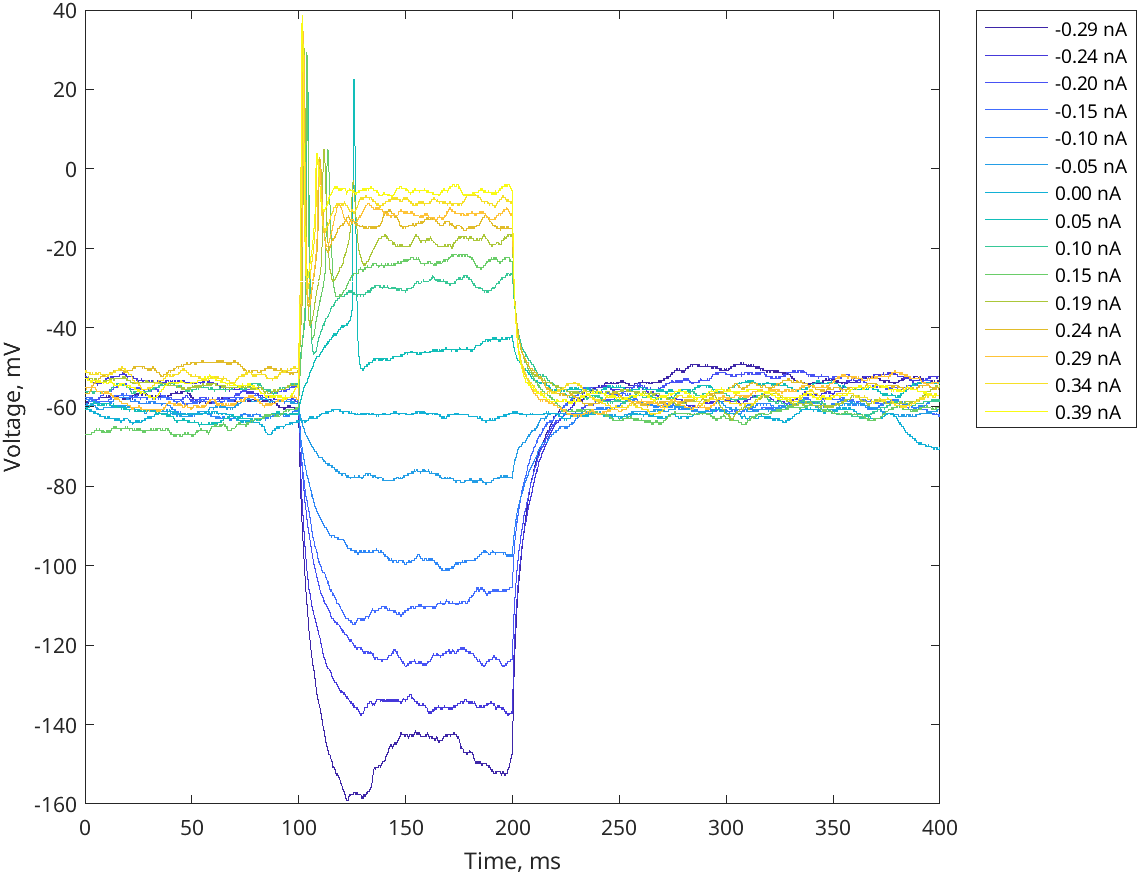
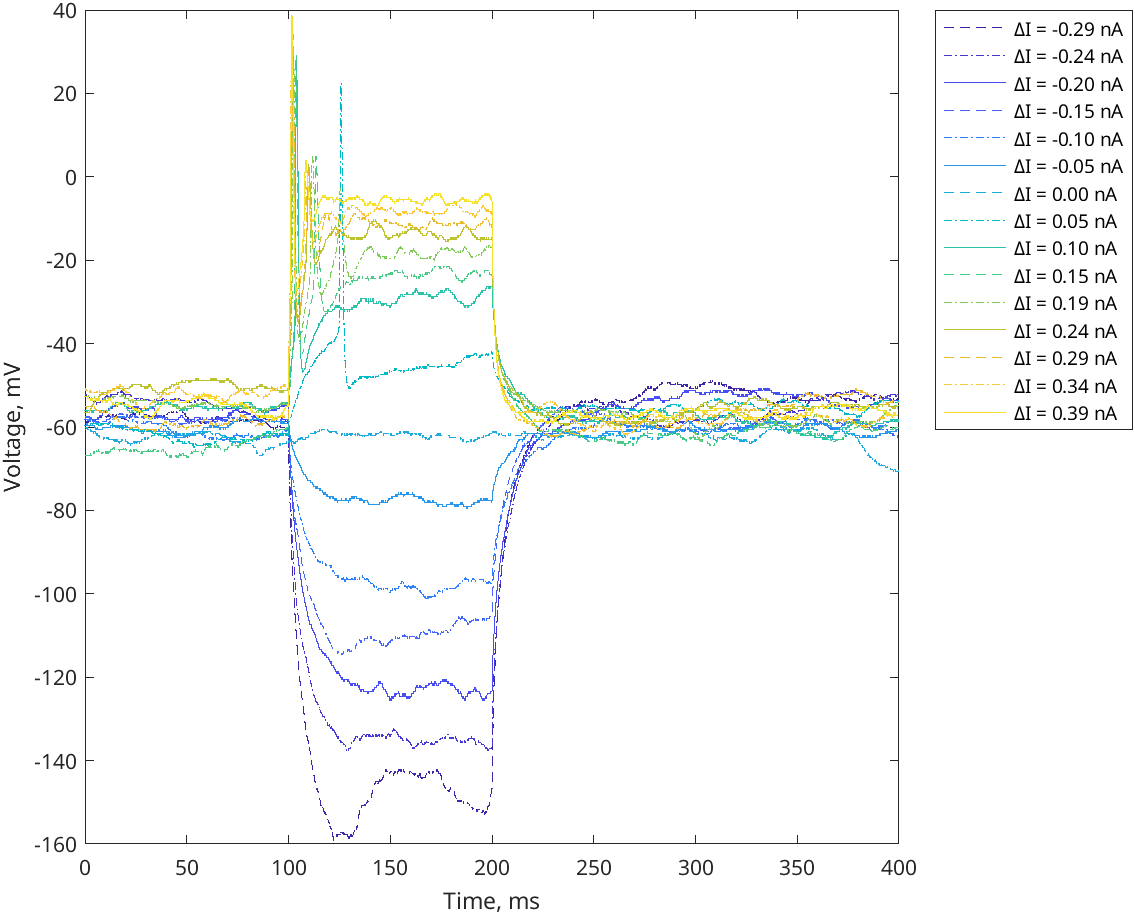
IV figure

diff --git a/analysisScript.m b/analysisScript.m
@@ -17,46 +17,42 @@ currentStop = 4000;
 t_ms = ts.T1 * 1000;
 
 current_traces = nan(NUM_SIGNALS, numel(t_ms));
-og_currents = nan(NUM_SIGNALS, 1);
+currents = nan(NUM_SIGNALS, 1);
 voltages = nan(NUM_SIGNALS, numel(t_ms));
 
 for f = 1:NUM_SIGNALS
     rec = ts.(fs(f));
     current_traces(f, :) = rec(:, 1);
-    og_currents(f) = mean(current_traces(f, currentStart:currentStop)); 
+    currents(f) = mean(current_traces(f, currentStart:currentStop)); 
     voltages(f, :) = rec(:, 2);
 end
 %% Current correction term
-% Find the internal current 
-if false
-    stds = std(voltages, 0, 2);
-    neutral_current_ix = find(stds < 2);
-    compensatory_current = og_currents(neutral_current_ix);
-    
-    currents = og_currents - compensatory_current;
-    current_traces = current_traces - compensatory_current;
-end
+% If the baseline was not zero, correct it to zero
+currents = currents - mean(current_traces(1:currentStart - 10));
 
+%% Color map
+cmap = colormap(parula(16));
 %%
 % Show the profile of the stimulation
 volt_f = figure;
 curr_f = figure;
 
-cmap = colormap(parula(15));
+
+ls  = {'--','-.','-','--','-.','-', '--','-.','-', '--','-.','-', '--','-.','-'};
+mk  = {'none','none','none','none','none','none', 'none','none','none','none','none','none','none','none','none'};%,'o','s','^', 'o','s','^', 'x','+','d'};
+
 
 for f = 1:NUM_SIGNALS
     
- 
     %voltage
     figure(volt_f)
-    plot(t_ms, voltages(f, :), 'Color', cmap(f, :), "DisplayName", sprintf("%1.2f nA",currents(f))); hold on; 
+    plot(t_ms, voltages(f, :), 'LineStyle',ls{f}, 'Marker',mk{f}, 'Color', cmap(f, :), "DisplayName", sprintf("ΔI = %1.2f nA",currents(f))); hold on; 
 
     %current
     figure(curr_f)
     plot(t_ms, current_traces(f, :), 'Color', cmap(f, :)); hold on; 
     plot([200, 200], [- 0.3, 0.3], 'k--'); hold on;
     plot([100, 100], [- 0.3, 0.3], 'k--'); hold on;
-
 
 
 end
@@ -71,82 +67,123 @@ legend('Location','northeastoutside');
 
 %% Save figures
 figure(curr_f);
-exportgraphics(gcf, "Current.png");
+exportgraphics(gcf, replace(p, ".mat", "")+"_Current.png");
 figure(volt_f);
 exportgraphics(gcf, replace(p, ".mat", "")+"_Voltage.png");
 
 
 %% Find the baseline values
 baselines = mean(voltages(:, 1:currentStart), 2); % mean of rows, cause every row is a timeseries
-smoothed_voltages = movmean(voltages, 100, 2); % 400 datapoints window = 20 ms smoothing
+smoothed_voltages = movmean(voltages, 10, 2); % 400 datapoints window = 0.5 ms smoothing
+stimulationSegment = smoothed_voltages(:, currentStart:currentStop);
 
+Baseline.avg = mean(baselines);
+Baseline.std = std(baselines);
 
 %% Calculate the AP amplitude & threshold
-
 % Find the traces with APs
+zscored = zscore(voltages(:, currentStart:currentStop), 0, 2); % look at how zscores represent the aps
 ap_mask = false(NUM_SIGNALS, 1);
+neutral_mask = false(NUM_SIGNALS, 1);
 for i = 1:NUM_SIGNALS
-    ap_mask(i) = sum(smoothed_voltages(i, :) >=  baselines(i) + 30) > 0;
+    if std(voltages(i, :)) > 2 % if this is a non-neutral trace
+        ap_mask(i) = sum(zscored(i, :) > 1.5 & voltages(i, currentStart:currentStop) > baselines(i)) > 0; % if there are spikes
+    else
+        neutral_mask(i) = true;
+    end
 end
+
 ap_ixs = find(ap_mask);
 
 % Out of all of them, select the one with the minimal current
 rheobase = min(currents(ap_mask)); % min current necessary to elicit a spike
 rheobase_ix = find(currents == rheobase);
-
-% Threshold - sharp elbow where we go from slwoly charging to spiking
-[~,biggest_der_ix] = max(diff(diff(smoothed_voltages(rheobase_ix, :)))); % biggest second derivative
 %% Count the number of spikes
-zscored = zscore(voltages(:, currentStart:currentStop), 0,2); % look at how zscores represent the aps
-zscored_f = figure;
+
 num_spikes = nan(NUM_SIGNALS, 1);
 isi = nan(NUM_SIGNALS, 1);
 
+zscored_f = figure('Position', [100 100 1400 900],'WindowState', 'maximized');
+t = tiledlayout(numel(ap_ixs), 1, 'TileSpacing', 'compact', 'Padding', 'compact');
+spike_ixs = cell(NUM_SIGNALS, 1); 
+
 for i = 1:numel(ap_ixs)
-    figure;
+    nexttile;
     f = ap_ixs(i);
-    title(sprintf("Stimulation current is %1.2f nA",currents(f)));
 
     lmax = islocalmax(zscored(f, :)) & zscored(f,:) > 1;
+
     % Calculate interspike interval (ms)
-    spike_ixs = find(lmax);
-    isi(f) = 1000*mean(diff(spike_ixs))/sf;
+    spike_ixs{f} = find(lmax);
+    isi(f) = 1000*mean(diff(spike_ixs{f}))/sf;
+
+
     num_spikes(f) = sum(lmax);
-    plot(t_ms(currentStart:currentStop), zscored(f, :), 'Color', cmap(f, :), "DisplayName", sprintf("%1.2f nA",currents(f))); hold on; 
+    plot(t_ms(currentStart:currentStop), voltages(f, currentStart:currentStop), 'Color', cmap(f, :), "DisplayName",  sprintf("ΔI = %1.2f nA",currents(f))); hold on; 
     
-    maxes = zscored(f, :);
+    maxes = voltages(f, currentStart:currentStop);
     maxes(~lmax) = nan;
-    plot(t_ms(currentStart:currentStop),maxes, "r*"); hold off;
+    plot(t_ms(currentStart:currentStop),maxes, "k*"); hold off;
     xlabel("Time, ms");
+    ylabel("Voltage, mV")
+    title(sprintf("ΔI = %1.2f nA",currents(f)));
+    spike_ixs{f} = spike_ixs{f} + currentStart;
+
+end
+exportgraphics(gcf, replace(p, ".mat", "")+"_Spikes.png")
+
+%% Threshold - sharp elbow where we go from slowly charging to spiking
+
+% Do it for each spike
+spikes_in_rheobase = spike_ixs{rheobase_ix};
+threshold = nan(numel(spikes_in_rheobase), 1);
+biggest_der_ix = nan(numel(spikes_in_rheobase), 1);
+
+
+for ix = 1:numel(spikes_in_rheobase)
+    spike_ix = spikes_in_rheobase(ix); 
+    % search from 10ms before AP up to AP
+    ms2 = 2 * sf /1000;
+    window = voltages(rheobase_ix, spike_ix-ms2:spike_ix);
+    [~, bdix] = max(diff(diff(window)));
+    bdix = bdix - 5; % go 0.25 ms before, because second derivative underestimates 
+    threshold(ix) = window(bdix);
+    biggest_der_ix(ix) = spike_ix-ms2 + bdix - 1;
+    figure;
+    plot(window);hold on;
+    plot(bdix, window(bdix), "r*");
 end
 
-
+Threshold = min(threshold);
 %% Plot the threshold on the voltage figure
 figure(volt_f);
-Threshold_voltage = voltages(rheobase_ix, biggest_der_ix);
-plot(biggest_der_ix / sf * 1000, Threshold_voltage, "DisplayName", "Threshold", "Marker","x", 'MarkerSize',8, 'Color','Black'); hold on;
+for i = 1:numel(biggest_der_ix)
+    tv = voltages(rheobase_ix, biggest_der_ix(i));
+    plot(t_ms(biggest_der_ix(i)), tv, "DisplayName", "Threshold", "Marker","x", 'MarkerSize',12, 'Color', 'Black');hold on;
+end
 
-%% Calculate the firing rate
-% Interspike interval
-
-
-%% Calculate the tau (time constant) via finding 2/3 of the exponential decay
+%% Calculate the tau (time constant) via finding 1-1/e of the exponential decay
 % tau = time at which two thirds of the signal has been lost
 
-[~, max_ix] = max(abs(smoothed_voltages - baselines), [], 2); % find teh biggest deviation from the baseline
+[~, max_ix] = max(abs(stimulationSegment - baselines), [], 2); % find teh biggest deviation from the baseline
+
 max_v = nan(NUM_SIGNALS, 1);
 two_thirds = nan(NUM_SIGNALS, 1);
 tau = nan(NUM_SIGNALS, 1);
 intersection_ixs = nan(NUM_SIGNALS, 1);
 
 for ix = 1:NUM_SIGNALS
-    max_v(ix) = smoothed_voltages(ix, max_ix(ix));
-    two_thirds(ix) = (max_v(ix) - baselines(ix)) * 2/3 + baselines(ix);
+    max_v(ix) = stimulationSegment(ix, max_ix(ix));
+    two_thirds(ix) = (max_v(ix) - baselines(ix)) * (1-exp(-1)) + baselines(ix);
 
     % find the intersection of voltages and the two_thirds
-    [~, intersection_ix] = min(abs(smoothed_voltages(ix, :) - two_thirds(ix)));
+    [~, intersection_ix] = min(abs(stimulationSegment(ix, :) - two_thirds(ix)));
     intersection_ixs(ix) = intersection_ix;
-    tau(ix) = intersection_ix / sf; % convert tau to seconds
+
+    figure(volt_f);
+    plot(t_ms(intersection_ix+currentStart), stimulationSegment(ix, intersection_ix), "k*", "DisplayName","Intersection"); hold on;
+
+    tau(ix) = intersection_ix/sf; % convert tau to seconds
 
 end
 
@@ -154,28 +191,84 @@ end
 
 %% Calculate the Membrane resistance R based on the segment of the voltage trace where dV/dt = 0 (all current is through R)
 
-stimulationSegment = smoothed_voltages(:, currentStart:currentStop);
 
-% take a row-wise temporal derivative - find dV/dt approx 0
+% take a row-wise temporal derivative of hyperpolarized segments - find dV/dt approx 0
+relevant_traces = ~neutral_mask & ~ap_mask;
+
 mask = [abs(diff(stimulationSegment, 1, 2)) < 0.01 false(NUM_SIGNALS, 1)]; % padded with logical 0 
+
 
 % only take last 25 ms of the stimulation window
 mask(1:round(3/4*numel(mask))) = false;
+mask(~relevant_traces) = false;
 
-% calculate R as mean voltage in places where dV/dt = 0 divided by
-% stimulation current
-R = mean(stimulationSegment .* mask, 2) ./ currents;
+dV = nan(NUM_SIGNALS, 1);
 
 
-% Plot the voltage traces with the regions that 
+% Plot the voltage traces with the regions that have dV/dt = 0
+time = t_ms(currentStart:currentStop);
 if true
-    mask_f = figure();
+    mask_f = figure;
     for i = 1:NUM_SIGNALS
         masked = stimulationSegment(i, :);
         masked(mask(i,:)) = nan;
-        plot(masked); hold on;
+
+        plot(time, masked, 'Color',cmap(i, :)); hold on;
+        plot(time(mask(i,:)), stimulationSegment(i, mask(i,:)), "r-.");
+        
+        % take voltages from dV/dt = 0 region
+        dV(i) = mean(stimulationSegment(i, mask(i,:)), 2);
     end
 end
+
+% calculate R as mean voltage in places where dV/dt = 0 divided by
+% stimulation current
+dV = dV - Baseline.avg;
+R = dV./ currents; % units are MOhm (10^6)
+
+%% Plot steady-state current-voltage relationship
+vi_fig = figure;
+title("I-V relationship");
+plot(currents, dV);
+xlabel("ΔI, nA");
+ylabel("ΔV, mV");
+exportgraphics(gcf, replace(p, ".mat", "")+"_IV.png")
+
+
 %% Calculate C as tau/R
-C = tau./R;
-%% Plot voltage traces, regions taken as dV/dt, intersections for the tau calculation and AP
+C = tau./(R * 1e6); % R is in MOhm
+%% Combined Current-Voltage plot
+
+final_figure = figure('Position', [100 100 1400 900],'WindowState', 'maximized');
+title("Overview of the responses to the step currents");
+
+for f = 1:NUM_SIGNALS
+    %f = NUM_SIGNALS - s + 1;
+    %voltage
+    subplot(1, 5, [1, 3]);
+    plot(t_ms, voltages(f, :), 'LineStyle',ls{f}, 'Marker',mk{f}, 'Color', cmap(f, :), "DisplayName", sprintf("ΔI = %1.2f nA",currents(f))); hold on; 
+   
+
+    %current
+    subplot(1, 5, [4,5]);
+    plot(t_ms, current_traces(f, :), 'Color', cmap(f, :)); hold on; 
+    plot([200, 200], [- 0.3, 0.3], 'k--'); hold on;
+    plot([100, 100], [- 0.3, 0.3], 'k--'); hold on;
+
+
+end
+
+subplot(1, 5, [1, 3]);
+title("Voltage traces",'FontSize', 23);
+l = legend('Location','northeastoutside', 'FontSize', 12);
+ylabel("Voltage, mV",'FontSize', 18);
+xlabel("Time, ms",'FontSize', 18);
+
+subplot(1, 5, [4,5]);
+title("Step currents",'FontSize', 23);
+ylabel("Current, nA",'FontSize', 18);
+xlabel("Time, ms",'FontSize', 18); 
+
+
+
+
